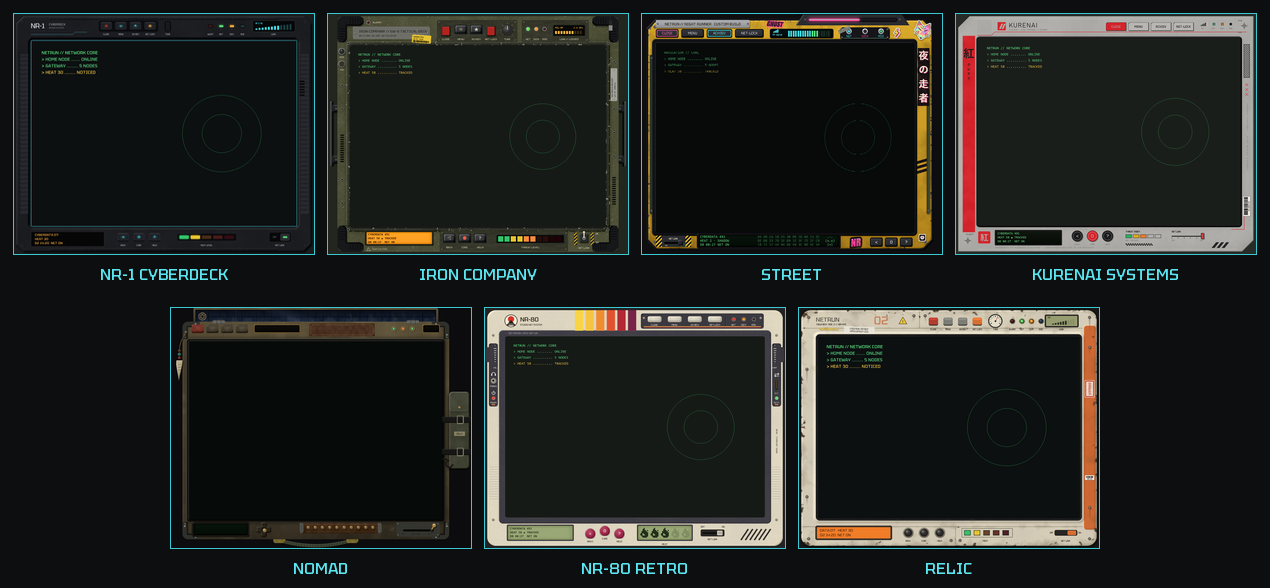
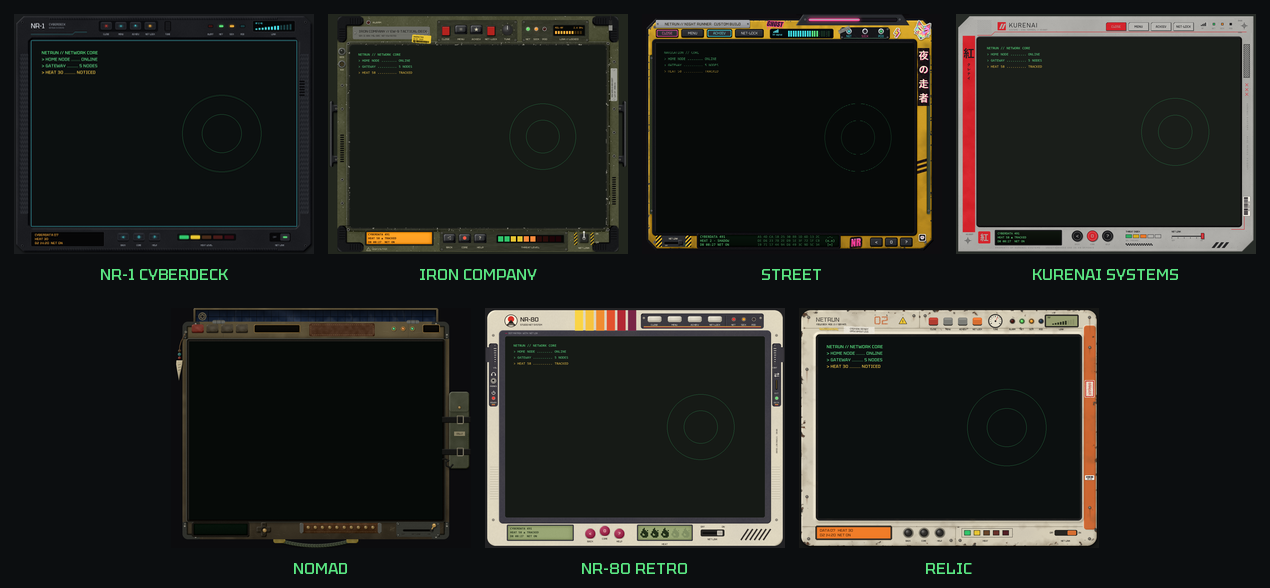
Steam frames gallery: no outlines, green captions

diff --git a/tools/steam_frames.py b/tools/steam_frames.py
@@ -18,7 +18,6 @@ for lang, idx in (("en", 1), ("ru", 2)):
         y = gap + row * (ch + 40 + gap)
         p = Image.open(os.path.join(ROOT, "Textures/UI/Netrun/Frame", f[0], "Preview.png")).convert("RGBA").resize((cw, ch), Image.LANCZOS)
         img.alpha_composite(p, (x, y))
-        d.rectangle([x - 1, y - 1, x + cw, y + ch], outline=(60, 200, 210, 255))
-        d.text((x + cw / 2, y + ch + 20), f[idx], font=A.font(16), fill=(90, 230, 240, 255), anchor="mm")
+        d.text((x + cw / 2, y + ch + 20), f[idx], font=A.font(16), fill=(90, 230, 130, 255), anchor="mm")
     img.convert("RGB").save(os.path.join(ROOT, "docs/steam/img", lang + "_frames.png"))
 print("ok")
